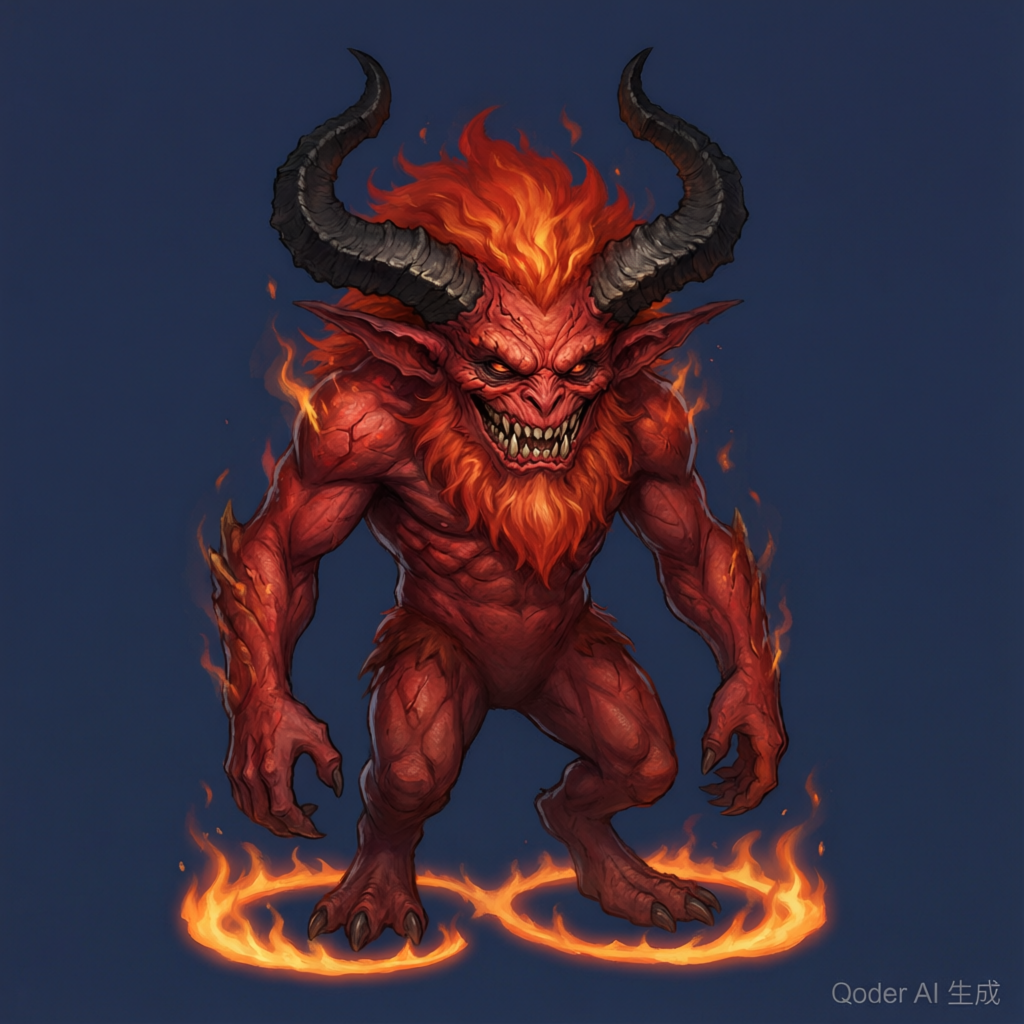
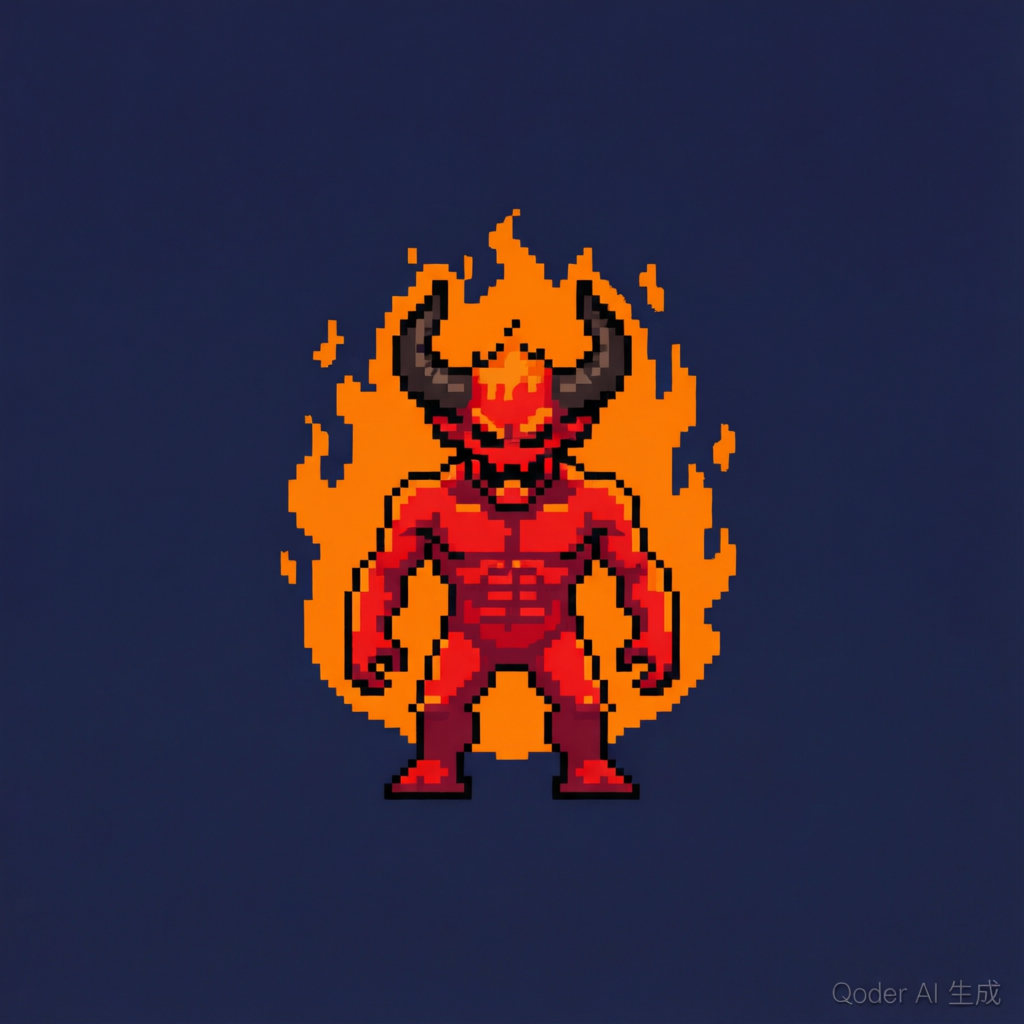
feat(dq): 全面切换为 8-bit 复古像素风
- 7 张角色图重新生成为 NES/SNES 8-bit 像素风（16 色板/深描边/大像素）
- Portrait 升级像素化管线：抠背景→裁剪角色→降采样 64x64→pixelated 放大
- 场景叠加像素点阵纹理，全局复古 CRT 质感
- 修复 willReadFrequently 性能警告

diff --git a/src/games/Portrait.tsx b/src/games/Portrait.tsx
@@ -1,17 +1,20 @@
 import { useEffect, useState } from 'react';
 
 /**
- * 立绘组件：加载 AI 生成的游戏立绘（深蓝底 #1d2b53），
- * 运行时用 Canvas 抠除背景色，输出透明 PNG dataURL。
+ * 像素化立绘组件：加载 AI 生成的 8-bit 像素风角色图（深蓝底 #1d2b53），
+ * 处理流程：抠除背景 → 裁剪角色区域 → 降采样为低分辨率像素 → 输出 dataURL。
+ * 显示时配合 image-rendering: pixelated 放大，呈现真实复古像素质感。
  */
 interface PortraitProps {
   src: string;
   className?: string;
   /** 抠图颜色容差（默认 4500 ≈ 67 像素距离） */
   tolerance?: number;
+  /** 降采样后的像素高度（宽按比例，正方形画布） */
+  pixelSize?: number;
 }
 
-export function Portrait({ src, className, tolerance = 4500 }: PortraitProps) {
+export function Portrait({ src, className, tolerance = 4500, pixelSize = 64 }: PortraitProps) {
   const [dataUrl, setDataUrl] = useState<string | null>(null);
 
   useEffect(() => {
@@ -19,16 +22,19 @@ export function Portrait({ src, className, tolerance = 4500 }: PortraitProps) {
     const img = new Image();
     img.onload = () => {
       try {
-        const maxSide = 480;
+        // 1. 缩到处理尺寸（加速）
+        const maxSide = 640;
         const ratio = Math.min(1, maxSide / Math.max(img.width, img.height));
         const w = Math.round(img.width * ratio);
         const h = Math.round(img.height * ratio);
         const c = document.createElement('canvas');
         c.width = w;
         c.height = h;
-        const ctx = c.getContext('2d');
+        const ctx = c.getContext('2d', { willReadFrequently: true });
         if (!ctx) return;
         ctx.drawImage(img, 0, 0, w, h);
+
+        // 2. 抠除深蓝背景
         const d = ctx.getImageData(0, 0, w, h).data;
         const bg = [0x1d, 0x2b, 0x53];
         const out = new Uint8ClampedArray(d);
@@ -41,7 +47,42 @@ export function Portrait({ src, className, tolerance = 4500 }: PortraitProps) {
           }
         }
         ctx.putImageData(new ImageData(out, w, h), 0, 0);
-        if (!cancelled) setDataUrl(c.toDataURL('image/png'));
+
+        // 3. 计算角色边界框（非透明像素）
+        const alpha = ctx.getImageData(0, 0, w, h).data;
+        let minX = w;
+        let minY = h;
+        let maxX = 0;
+        let maxY = 0;
+        for (let y = 0; y < h; y++) {
+          for (let x = 0; x < w; x++) {
+            if (alpha[(y * w + x) * 4 + 3] > 30) {
+              if (x < minX) minX = x;
+              if (x > maxX) maxX = x;
+              if (y < minY) minY = y;
+              if (y > maxY) maxY = y;
+            }
+          }
+        }
+        if (maxX <= minX || maxY <= minY) return;
+        const bw = maxX - minX + 1;
+        const bh = maxY - minY + 1;
+
+        // 4. 按角色宽高比降采样到像素画布（居中放置）
+        const scale = pixelSize / Math.max(bw, bh);
+        const pw = Math.max(1, Math.round(bw * scale));
+        const ph = Math.max(1, Math.round(bh * scale));
+        const px = Math.round((pixelSize - pw) / 2);
+        const py = Math.round((pixelSize - ph) / 2);
+        const p = document.createElement('canvas');
+        p.width = pixelSize;
+        p.height = pixelSize;
+        const pctx = p.getContext('2d');
+        if (!pctx) return;
+        pctx.imageSmoothingEnabled = true; // 降采样需要平滑，像素感由显示端放大产生
+        pctx.drawImage(c, minX, minY, bw, bh, px, py, pw, ph);
+
+        if (!cancelled) setDataUrl(p.toDataURL('image/png'));
       } catch {
         if (!cancelled) setDataUrl(src);
       }
@@ -53,7 +94,7 @@ export function Portrait({ src, className, tolerance = 4500 }: PortraitProps) {
     return () => {
       cancelled = true;
     };
-  }, [src, tolerance]);
+  }, [src, tolerance, pixelSize]);
 
   if (!dataUrl) return <div className="portrait-loading" aria-hidden />;
   return <img src={dataUrl} className={className} alt="" draggable={false} />;

diff --git a/src/index.css b/src/index.css
@@ -1586,7 +1586,7 @@ code {
   background: linear-gradient(180deg, #200a0a 0%, #4a1414 55%, #140404 100%);
 }
 
-/* 顶部光晕 + 地面纹理 */
+/* 顶部光晕 + 地面纹理 + 像素点阵 */
 .dq-scene::before {
   content: '';
   position: absolute;
@@ -1598,7 +1598,9 @@ code {
       0deg,
       rgba(0, 0, 0, 0.16) 0 2px,
       transparent 2px 7px
-    );
+    ),
+    radial-gradient(rgba(255, 255, 255, 0.05) 1px, transparent 1.5px);
+  background-size: 100% 100%, 100% 100%, 5px 5px;
   pointer-events: none;
 }
 
@@ -1662,6 +1664,7 @@ code {
   width: auto;
   max-width: 220px;
   object-fit: contain;
+  image-rendering: pixelated;
   filter: drop-shadow(0 12px 26px rgba(0, 0, 0, 0.5));
   animation: dqIdle 2.2s ease-in-out infinite;
 }
@@ -1696,6 +1699,7 @@ code {
   width: auto;
   max-width: 240px;
   object-fit: contain;
+  image-rendering: pixelated;
   filter: drop-shadow(0 12px 26px rgba(0, 0, 0, 0.5));
   animation: dqIdle 2.4s ease-in-out infinite;
 }
